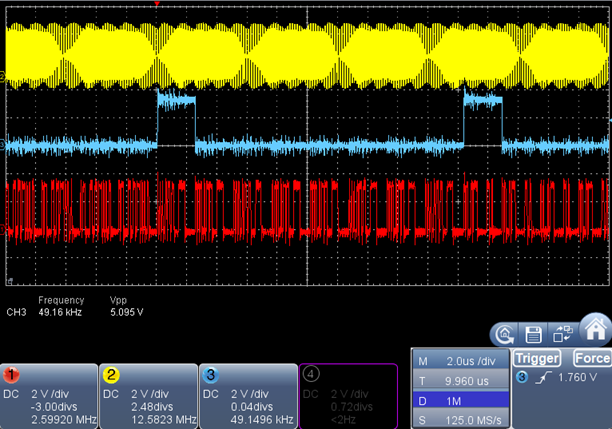
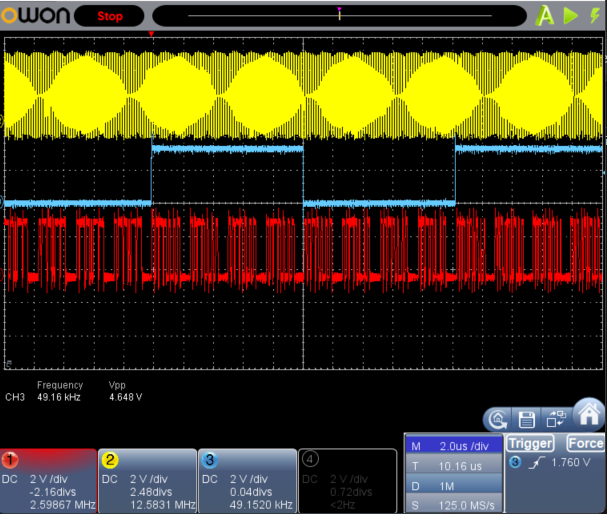
docs(readme): TDM8 demo now defaults to CLC10 50%-duty FS (image + text)
Replace the scope snapshot with the 50%-duty FS capture (TDM8_snap_02: BCLK/FS=256)
and update the caption + the smoke-demo section: the demo defaults to a 50%-duty
FS/LRCK generated by the HAL (SS1 half-frame marker -> CLC10 J-K flip-flop), set
APP_TDM_MASTER_FS50_BY_CLC10=0 for the short 1-BCLK pulse. Links docs/experiment_tdm_clc10_fs50.md.

diff --git a/README.md b/README.md
@@ -17,14 +17,17 @@ TDM8 smoke demo running on MikroBUS-A — all running together. On a single boar
 with no CAN partner, the CAN1 controller instead goes `error-passive` and
 retransmits (a burst you can see on a scope/CAN analyzer).
 
-<img src="docs/images/tdm8-scope-mikrobus-a.png" alt="Oscilloscope capture of MikroBUS-A SPI pins during the TDM8 smoke demo: BCLK (~12.5 MHz, yellow), FS (~49 kHz, blue), and DataOut carrying the TDM8 slot data (red)" width="900">
+<img src="docs/images/tdm8-scope-mikrobus-a.png" alt="Oscilloscope capture of MikroBUS-A SPI pins during the TDM8 master smoke demo: BCLK (~12.5 MHz, yellow), a ~50%-duty CLC10-generated FS/LRCK (~49 kHz, blue), and DataOut carrying the TDM8 slot data (red); BCLK/FS = 256" width="900">
 
-Oscilloscope capture of the MikroBUS-A SPI pins with the TDM8 smoke demo
+Oscilloscope capture of the MikroBUS-A SPI pins with the TDM8 master smoke demo
 running: BCLK (~12.5 MHz, yellow), frame sync FS (~49 kHz, blue), and DataOut
-carrying the eight-slot TDM8 pattern (red). This is the raw signal that appears
-on the MikroBUS-A header when the demo is active; no codec is required. The FS
-period (~20 µs) spans most of the 2 µs/div window, and each FS pulse frames the
-8 × 32-bit data slots that follow it on DataOut.
+carrying the eight-slot TDM8 pattern (red). No codec is required. The demo now
+**defaults to a ~50%-duty FS/LRCK** generated by the SPI/I2S/TDM HAL: the SPI
+emits a half-frame `SS1` marker and CLC10 (a J-K flip-flop) toggles it into the
+50%-duty FS shown here — so `BCLK/FS = 256` and one FS *period* (~20 µs) spans
+the eight 32-bit slots, with the level flipping at the half-frame (slots 0–3 vs
+4–7). Set `APP_TDM_MASTER_FS50_BY_CLC10 = 0` to return to the original short
+1-BCLK FS pulse. See [docs/experiment_tdm_clc10_fs50.md](docs/experiment_tdm_clc10_fs50.md).
 
 ## Required hardware
 
@@ -100,6 +103,11 @@ The firmware demonstrates:
    DataOut->DataIn to read the RX level near `0 dB rel`; with no jumper it floors near
    `-140 dB rel`. The stream runs on DMA/ISR and prints one status line every ~5 s:
    `[TDM1] TDM8 master exp_fs~48.8kHz exp_bclk~12.5MHz block=... miss=0 rx=... dB rel`.
+   - The demo **defaults to a 50%-duty FS/LRCK** generated by the SPI/I2S/TDM HAL: the SPI
+     emits a half-frame `SS1` marker and **CLC10** (a J-K flip-flop) toggles it into the FS,
+     so `BCLK/FS = 256` (observed FS ~48.8–49.1 kHz depending on BRG/clock).
+   - Set `APP_TDM_MASTER_FS50_BY_CLC10 = 0` (`src/app/app_config.h`) to return to the original
+     short 1-BCLK FS pulse. Detailed notes: [docs/experiment_tdm_clc10_fs50.md](docs/experiment_tdm_clc10_fs50.md).
    **This demo holds the MikroBUS-A SPI pins** — to use a real SPI Click board there, set
    `HAL_STARTER_ENABLE_TDM_SMOKE_DEMO 0` in `src/app/app_config.h`. A start failure is
    reported but does not stop the other demos. (The MikroBUS-A I2C SDA/SCL pins are